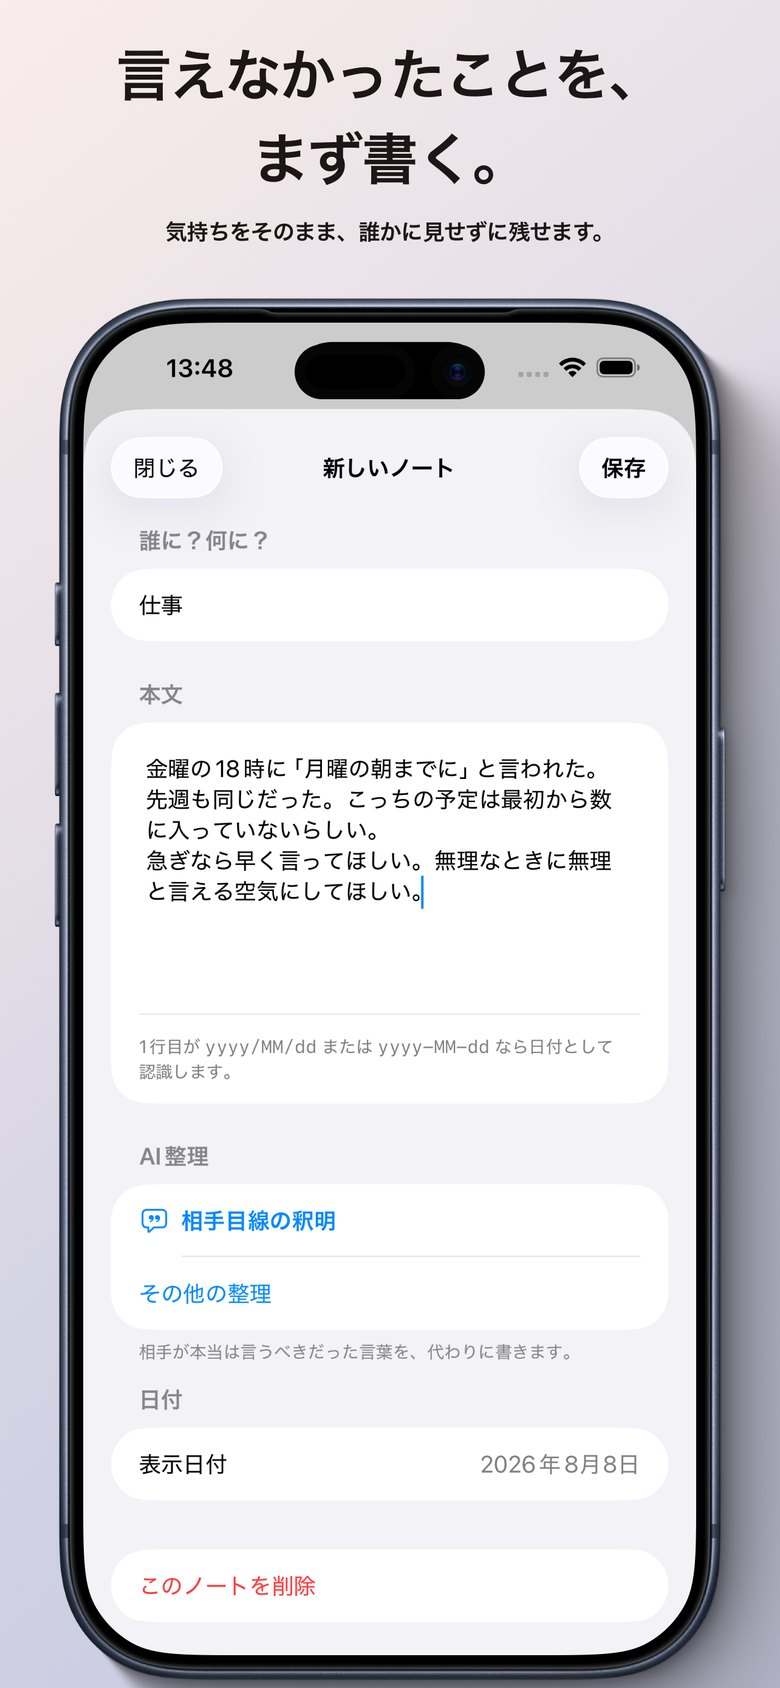
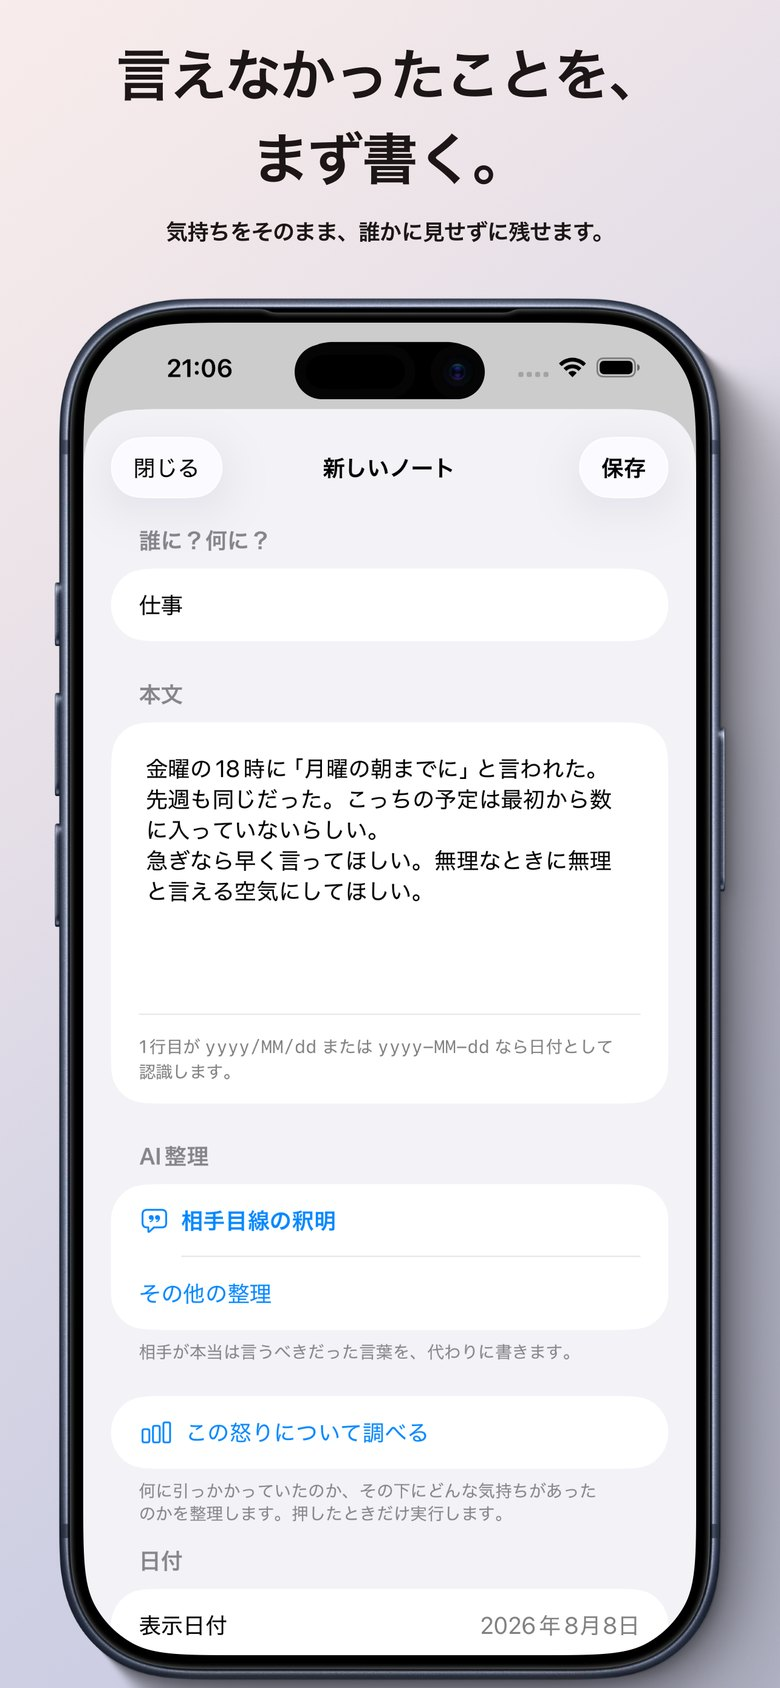
LPの2枚目を最新の画面に差し替える
分析がボタン式になり、入力画面に「この怒りについて調べる」が
出るようになったため、古い画面は実物と違っていた。

これで4枚すべてが現在の実装と一致する。

diff --git a/fumannote.html b/fumannote.html
@@ -109,7 +109,7 @@
         <div style="font-family:'IBM Plex Mono',monospace; font-size:12.5px; letter-spacing:.16em; color:#e86e54; margin-bottom:28px;">SCREENS</div>
         <div class="fs-shots">
           <img src="assets/shots/fumannote-01.jpg" width="780" height="1688" loading="lazy" decoding="async" alt="ノートの一覧。「実家」「役所」「友だち」「近所」など、書き出した不満が日付とともに並んでいる。">
-          <img src="assets/shots/fumannote-02.jpg" width="780" height="1688" loading="lazy" decoding="async" alt="ノートの入力画面。「誰に？何に？」と本文の欄、そして「相手目線の釈明」ボタン。">
+          <img src="assets/shots/fumannote-02.jpg" width="780" height="1688" loading="lazy" decoding="async" alt="ノートの入力画面。「誰に？何に？」と本文の欄、「相手目線の釈明」ボタン、そして押したときだけ実行される「この怒りについて調べる」。">
           <img src="assets/shots/fumannote-03.jpg" width="780" height="1688" loading="lazy" decoding="async" alt="生成された文章。相手の一人称で、何が起きたかを認め、事情を説明し、非を認める内容が並んでいる。">
           <img src="assets/shots/fumannote-04.jpg" width="780" height="1688" loading="lazy" decoding="async" alt="文章の末尾と、押したときだけ出る「この怒りについて」。怒りの強さ、その下にあった気持ち、大事にしていたこと、いま動かせる範囲が並んでいる。">
         </div>
